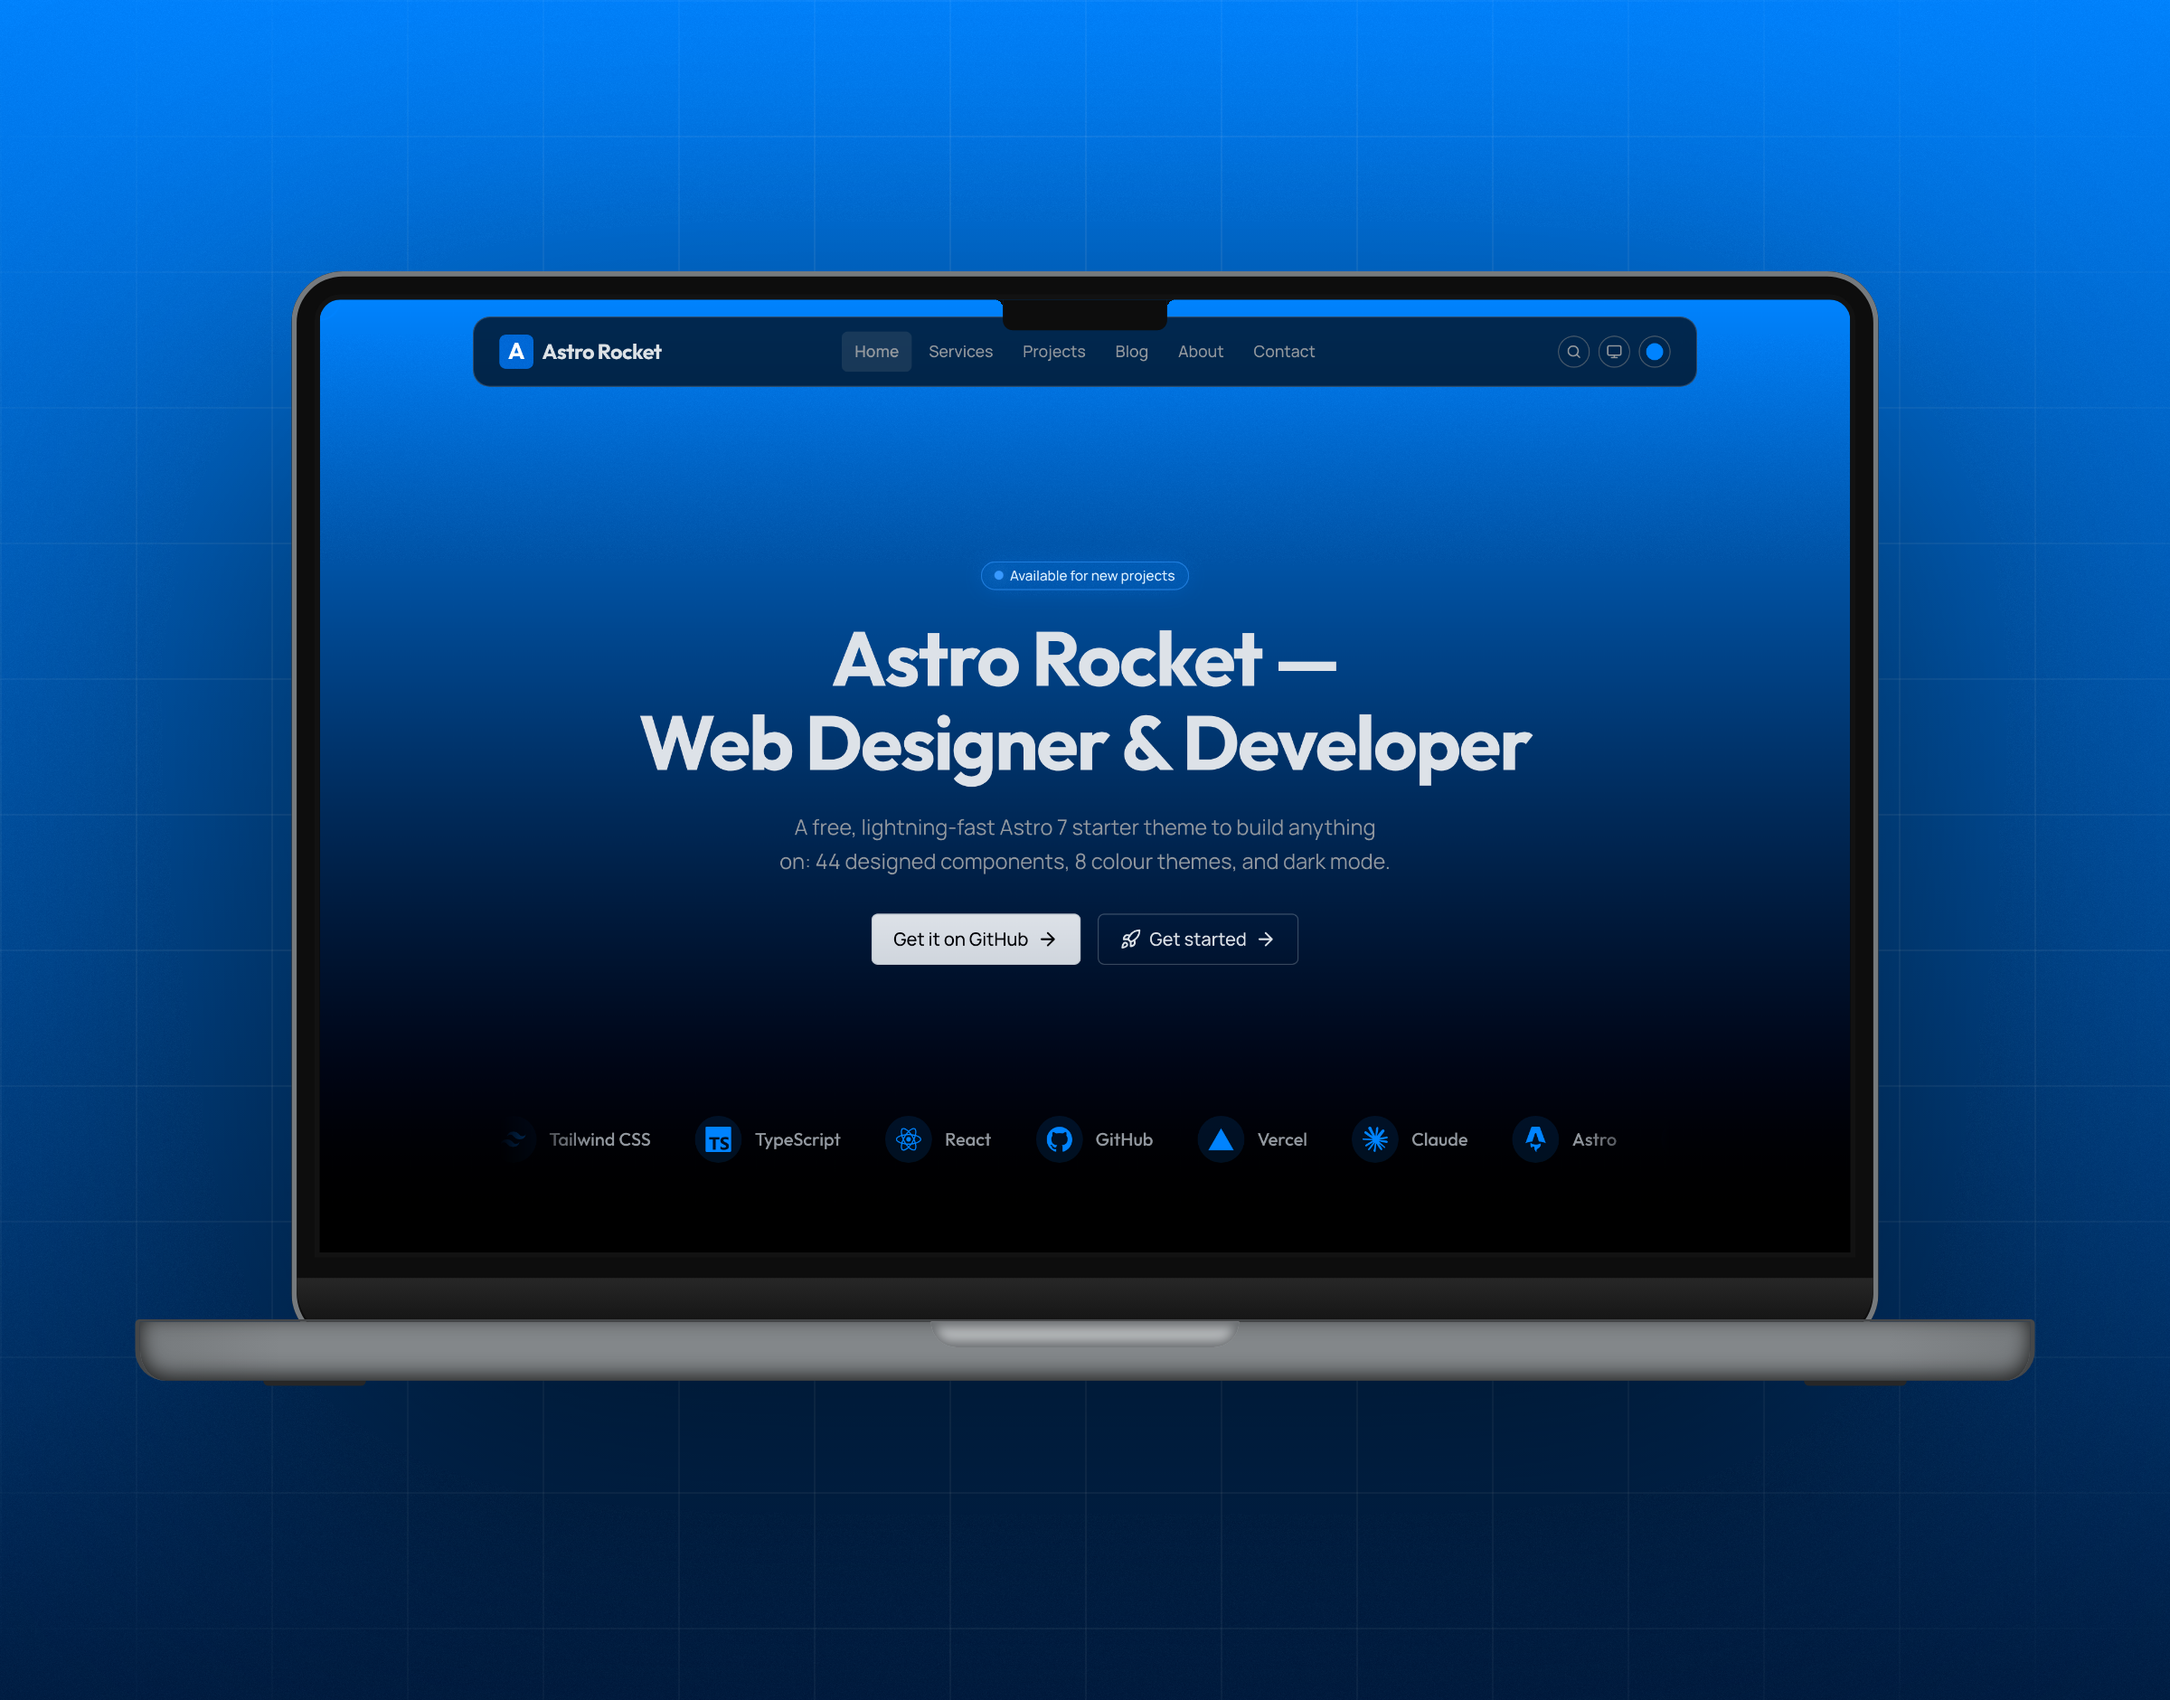
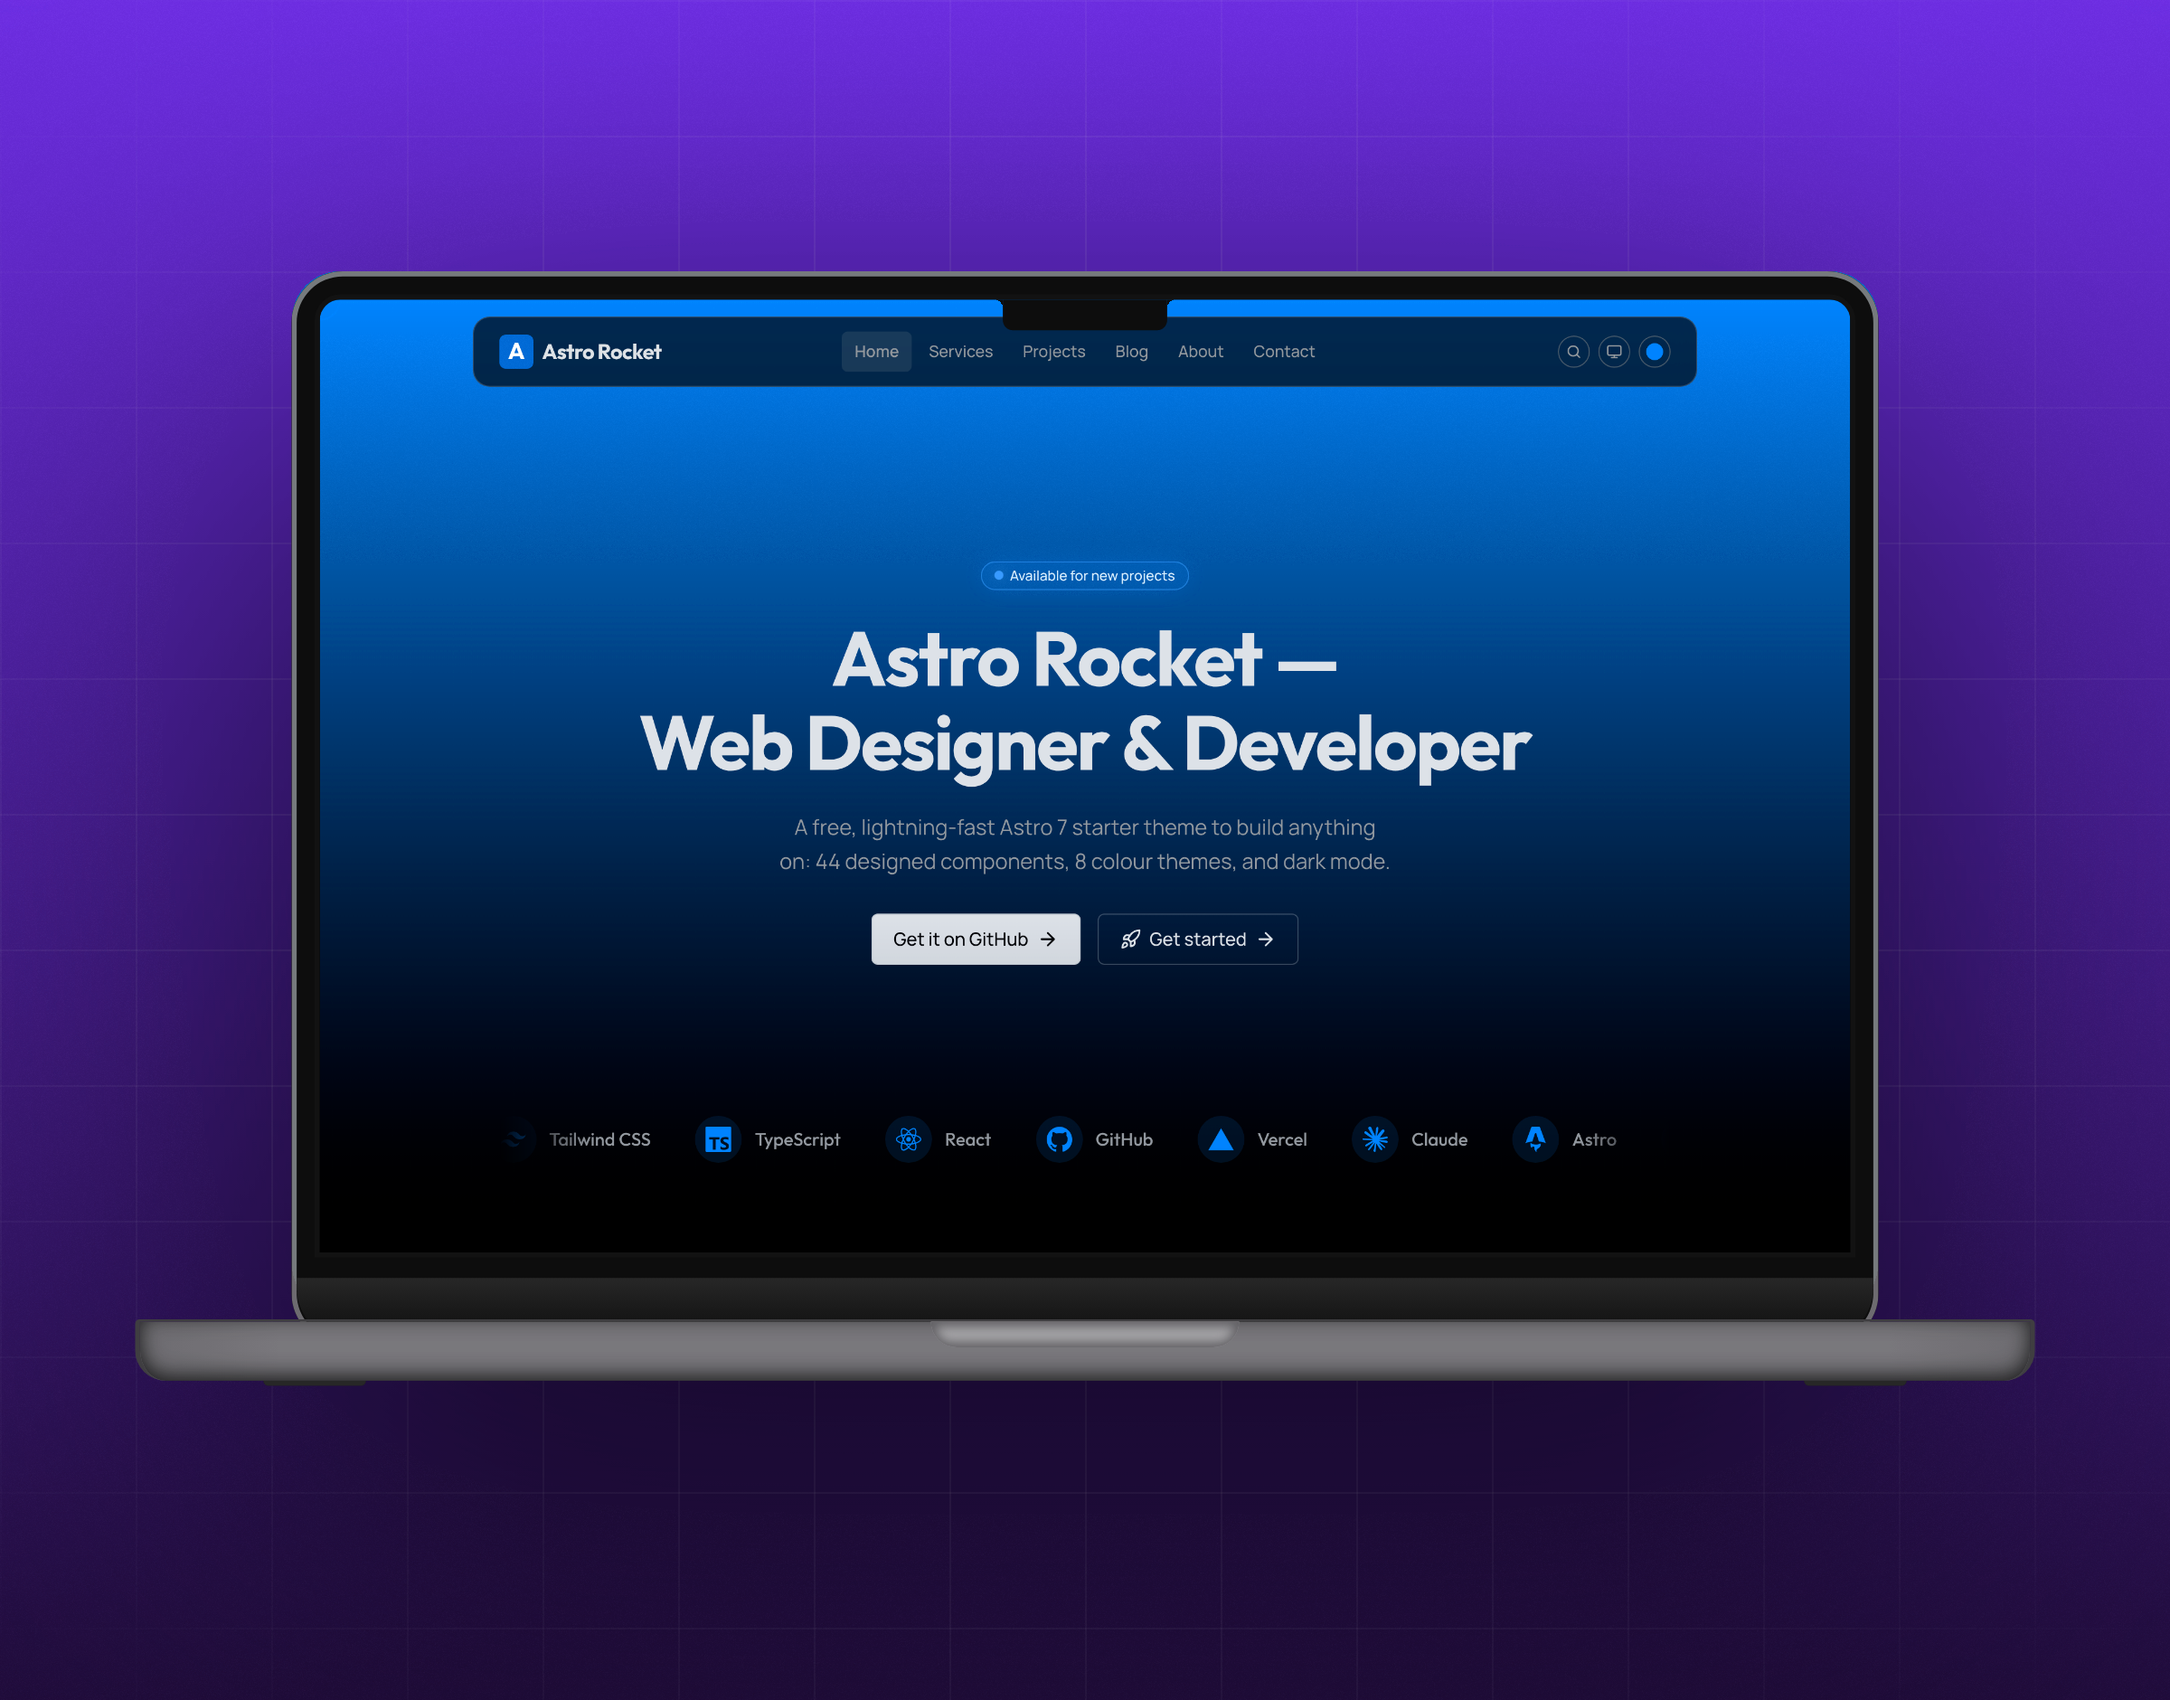
Put the Astro Rocket pictures on a violet ground
The blue ground round the laptop in the card, page hero and phone
pictures is now the violet of the hansmartens.dev picture (hue, depth
and brightness matched to it). The laptop and the Astro Rocket site on
its screen keep their real blue. Saved lossless, like the originals.
The picture's description says violet ground.

Claude-Session: https://claude.ai/code/session_01QQKtzRrqmVqCvb8agowgiA

diff --git a/src/content/work/astro-rocket.md b/src/content/work/astro-rocket.md
@@ -11,7 +11,7 @@ feature: "../../assets/work/astro-rocket/laptop-card.webp"
 featureMobile: "../../assets/work/astro-rocket/laptop-hero-mobile.webp"
 pageHero: "../../assets/work/astro-rocket/laptop-hero.webp"
 pageHeroMobile: "../../assets/work/astro-rocket/laptop-hero-mobile.webp"
-coverAlt: "The Astro Rocket homepage on a MacBook: 'Astro Rocket, Web Designer & Developer' on a blue gradient, on a blue ground"
+coverAlt: "The Astro Rocket homepage on a MacBook: 'Astro Rocket, Web Designer & Developer' on a blue gradient, on a violet ground"
 challenge: "Astro Rocket is my free, open-source Astro theme. It didn't begin as a theme: it started as a clone of my previous website, which I had built up with a lot of features for myself. Because that foundation had been proven on a real website, I thought other people might want to build on it too.\n\nSo I cloned it, replaced my content with demo content, and turned it into a theme anyone can start from: an Astro 7 starter, MIT-licensed, running live at [astrorocket.dev](https://astrorocket.dev)."
 solution: "**The colour system.** Astro Rocket has 8 colour themes on a token-based colour system. Change the default colour and the whole site follows: the favicon, drawn from your settings with the first letter of your site name, the logo, the blog cover images and every component. A theme selector in the header lets visitors and you switch between all 8 themes and watch the site change live, without opening a file.\n\n**Everything a site needs.** 44 designed, accessible components. Project pages with an image gallery or a video. Search with Pagefind, which runs in the browser with no server. Comments with Giscus, Cusdis or Artalk, off by default. A multi-language setup with a route for every page, which grew because users raised issues and pushed it forward.\n\n**The blog is the documentation.** 25 how-to posts, from getting started to every feature, so someone new to the theme learns to make it their own by reading.\n\n**On astro.build.** I submitted Astro Rocket to the official Astro themes directory, where it went through their review and was accepted. Developers anywhere can find it where they would look for a theme."
 technologies: ["Astro", "TypeScript", "Tailwind CSS", "Pagefind"]
